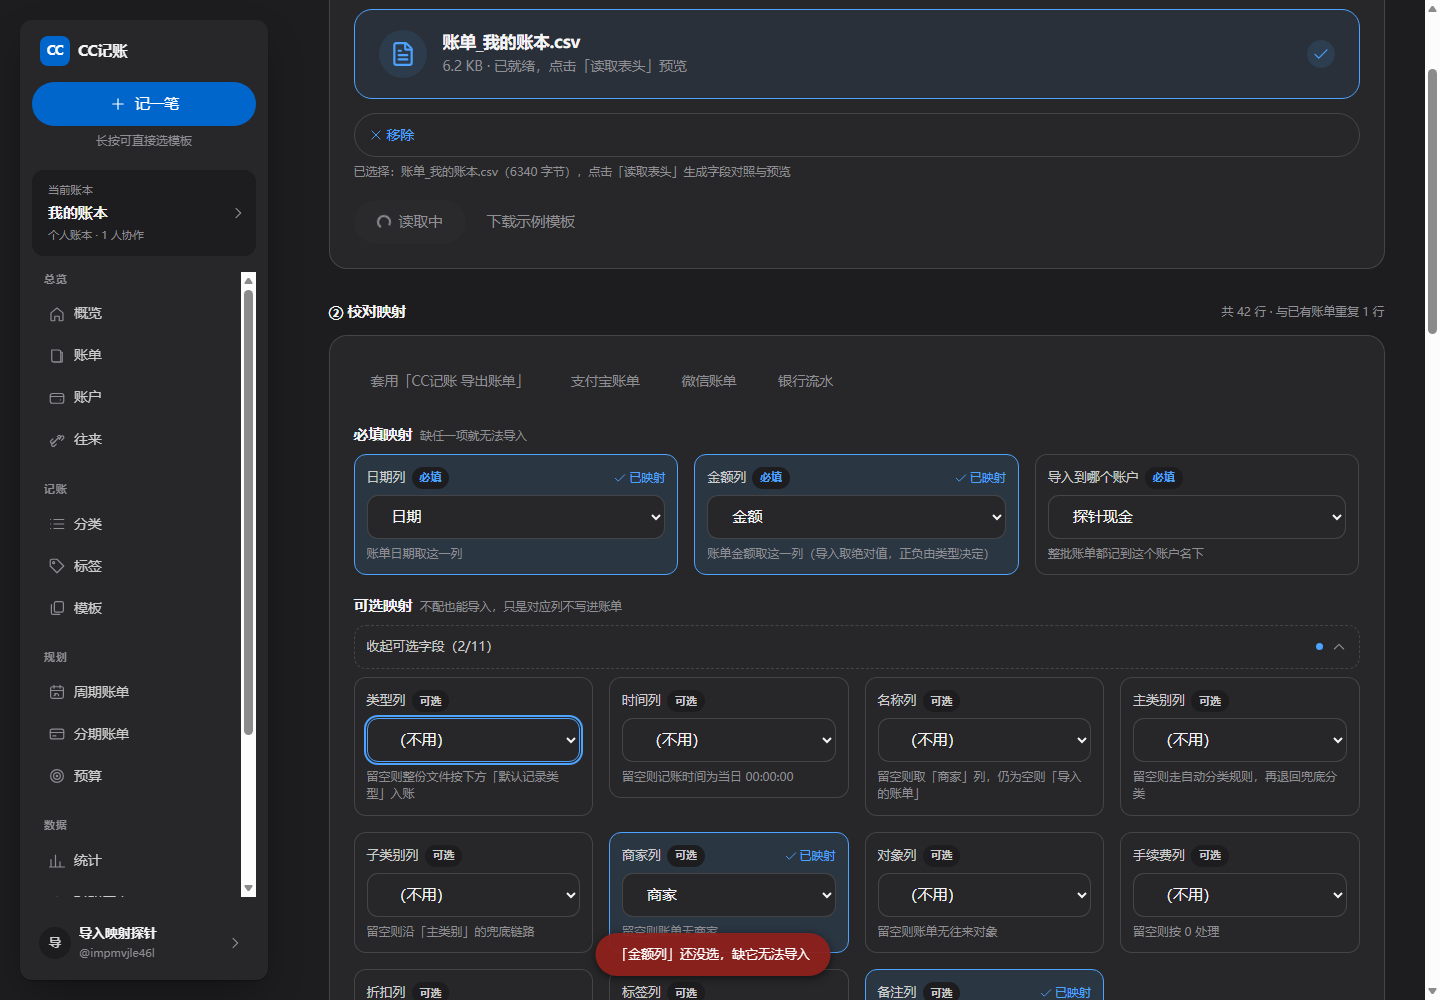
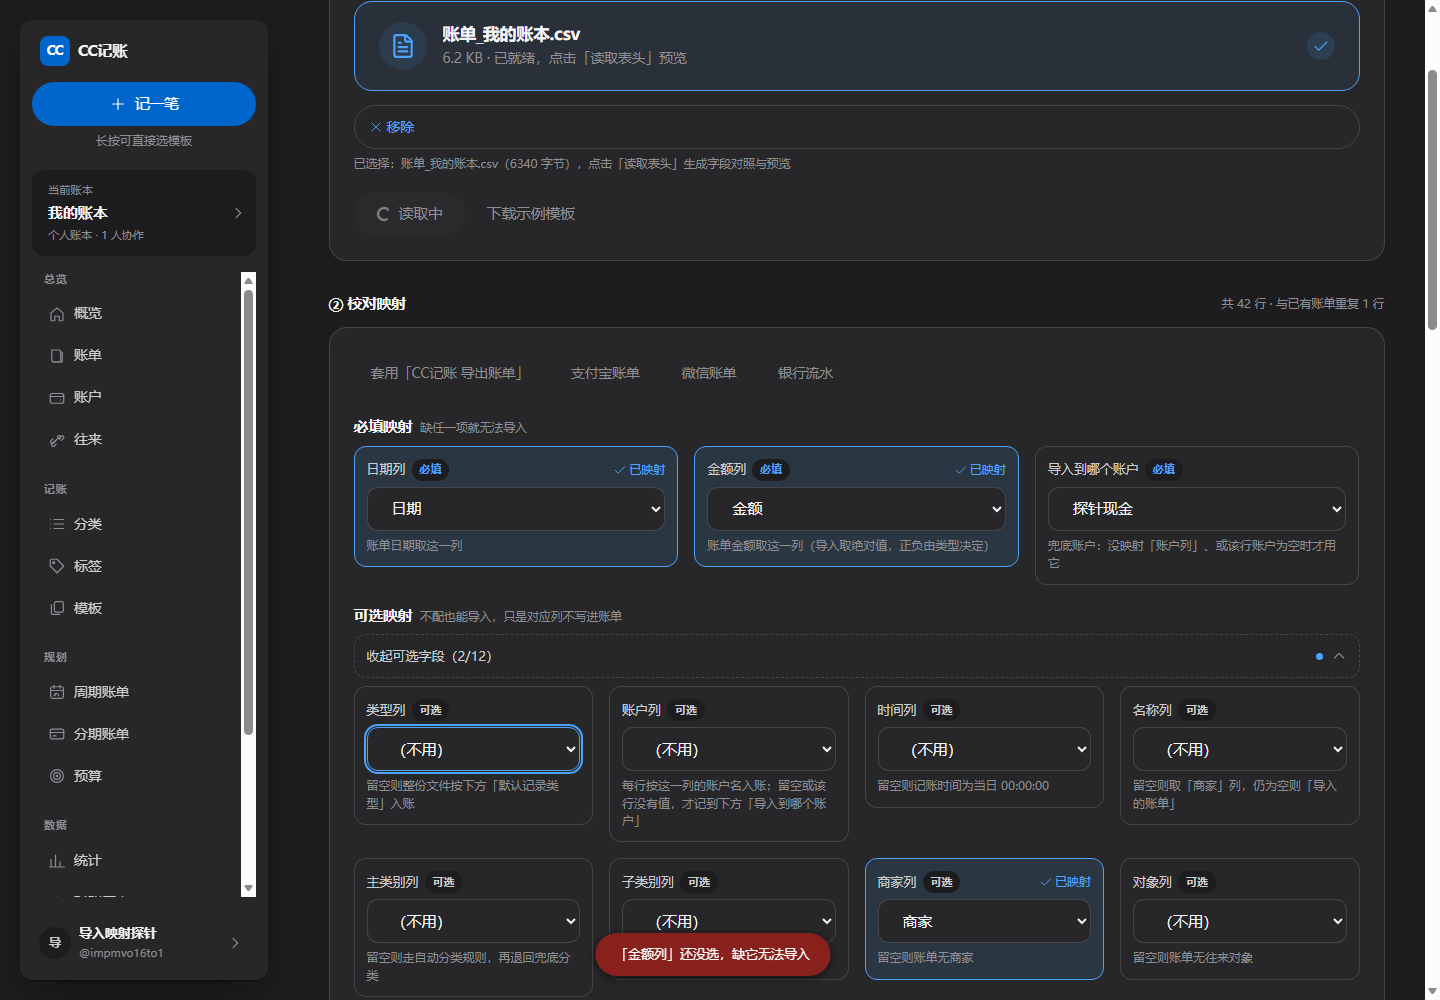
fix(import): 「账户」列按行归集，不再整批落到默认账户

diff --git a/src/modules/imports/service.ts b/src/modules/imports/service.ts
@@ -197,6 +197,13 @@ export const MAPPING_TEMPLATES: MappingTemplate[] = [
       dateColumn: ['日期'],
       amountColumn: ['金额'],
       recordTypeColumn: ['类型'],
+      /**
+       * 每行自带的账户名 —— 导出端写的是 `account.name`（`rowsToCsv()` 第 7 列）。
+       *
+       * ⚠ 这一列此前标成「不读取」，所有行落到「导入到哪个账户」那一个账户上，
+       *    自己的导出文件导回来 = 整份流水被压进同一个账户，账户余额集体失真。
+       */
+      accountColumn: ['账户'],
       timeColumn: ['时间'],
       nameColumn: ['名称'],
       mainCategoryColumn: ['主类别'],
@@ -217,7 +224,10 @@ export const MAPPING_TEMPLATES: MappingTemplate[] = [
      *    再让系统按 amount 重算一遍手续费会**双重计入**（`docs/03 §1.2`）。
      *
      * 「分类」在此拆为「主类别」「子类别」两列，分别反查一级 / 二级分类。
-     * 共消费 13 列（日期/时间/类型/主类别/子类别/名称/商家/对象/金额/手续费/折扣/标签/备注），其余 5 列（方向/账户/转入账户/实际值/记账人）不读取。
+     * 共消费 14 列（日期/时间/类型/账户/主类别/子类别/名称/商家/对象/金额/手续费/折扣/标签/备注），
+     * 其余 4 列（方向/转入账户/实际值/记账人）不读取。
+     *
+     * ⚠ 「账户」列**必须读取**：不读它，整份文件就只能落到一个账户上。
      */
 doc: [
       {
@@ -286,9 +296,9 @@ doc: [
         kind: 'ref',
         values: null,
         required: false,
-        consume: null,
-        hint: '不读取。导入统一写入「导入到哪个账户」所选账户，不按行分散',
-        defaultValue: '下方「导入到哪个账户」所选账户',
+        consume: 'accountColumn',
+        hint: '可选，但强烈建议映射：账单按**每行自己的**账户名入账；不映射则整批落到「导入到哪个账户」',
+        defaultValue: '该行账户为空（或本列不映射）时，取下方「导入到哪个账户」所选账户',
       },
       {
         column: '转入账户',
@@ -489,6 +499,16 @@ export const IMPORT_COLUMN_FIELDS = [
   'dateColumn',
   'amountColumn',
   'recordTypeColumn',
+  /**
+   * 「账户」列：按**每行自己的**账户名入账。
+   *
+   * ⚠ 这一列曾经被当成「不读取」，所有行一律落到 `defaultAccountId`
+   *   （界面上那个「导入到哪个账户」）—— 于是从本系统导出的 18 列文件
+   *   导回来时，原本分散在现金/银行卡/信用卡里的流水**全被塞进同一个账户**，
+   *   账户余额集体失真，而报告里没有一条失败行（静默的归集错误）。
+   *   「导入到哪个账户」的正确定位是**兜底**：账户列没映射、或该行这一格为空时才用。
+   */
+  'accountColumn',
   'directionColumn',
   'timeColumn',
   'nameColumn',
@@ -521,6 +541,17 @@ export interface Mapping {
    * 改名后两列各归其位，不会再有人照着字段名理解错。
    */
   recordTypeColumn?: string | null;
+  /**
+   * 每行自带的账户名所在的列。
+   *
+   * ⚠ 它与 `defaultAccountId` 是**两回事**，不能互相顶替：
+   *   · `accountColumn` —— **逐行**取值，本行写了「招行信用卡」就记到那张卡；
+   *   · `defaultAccountId` —— **整批兜底**，账户列没映射或该行为空时才用。
+   * 留空 → 整批落到 `defaultAccountId`（改之前的行为）。
+   * 行列了名字但账本里查不到 → **该行失败**并明确报出名字，
+   * 绝不静默退回兜底账户（那等于把钱记到别的账户上）。
+   */
+  accountColumn?: string | null;
   /**
    * 支付宝/微信的「收/支」列：只能区分收支两种，
    * 是 `recordTypeColumn` 的弱化兜底 —— 两者都命中时以 `recordTypeColumn` 为准。
@@ -576,6 +607,8 @@ export interface ParsedRow {
   /** 「类型/收支」列的原文，报错时回显（用户要能对上自己文件里的那一格） */
   rawType: string | null;
   /** 以下均为可选列：未映射时留 null，由 commit 兜底 */
+  /** 该行自带的账户名（原文）。null = 未映射或该格为空 → 落到 defaultAccountId */
+  accountName: string | null;
   txTime: string | null;
   name: string | null;
   mainCategoryName: string | null;
@@ -711,6 +744,8 @@ export function parseRows(
   const iRecordType = idx(mapping.recordTypeColumn);
   /** 「收/支」列：支付宝/微信的弱化兜底（只能区分收支），二者都命中时以 recordTypeColumn 为准 */
   const iDirection = idx(mapping.directionColumn);
+  /** 每行自带的账户名（「账户」列）；-1 = 未映射，全部走 defaultAccountId */
+  const iAccount = idx(mapping.accountColumn);
   const iTime = idx(mapping.timeColumn);
   const iName = idx(mapping.nameColumn);
   const iMain = idx(mapping.mainCategoryColumn);
@@ -792,6 +827,7 @@ export function parseRows(
       note: iNote >= 0 ? (r[iNote]?.trim() || null) : null,
       recordType,
       rawType,
+      accountName: at(iAccount),
       txTime: normalizeTime(at(iTime)),
       name: at(iName),
       mainCategoryName: at(iMain),
@@ -868,27 +904,30 @@ export function preview(
 
   const header = (rows[0] ?? []).map((c) => c.trim());
   const guess = guessMapping(header);
-  const eff: Mapping = {
+  /**
+   * 逐列兜底：**所有**列字段统一走「用户指定 → guess 猜的 → null」。
+   *
+   * ⚠ 此前只给 recordType / 主类别 / 子类别 等 5 个字段写了 guess 兜底，
+   *    时间 / 名称 / 账户 / 对象 / 手续费 / 折扣 / 标签 **漏了**，
+   *    于是「表头明明有这一列、服务端也猜中了、表单里却是空的」——
+   *    与早先「方向列被当不存在、工资导成支出」是**同一个坑的不同列**。
+   *    改成按 `IMPORT_COLUMN_FIELDS` 统一派生：新增列自动获得兜底，不会再漏。
+   *
+   * 必填的日期 / 金额额外退回「第一列 / 第二列」，保证首次预览总有东西可看。
+   */
+  const eff = {
     dateColumn: mapping?.dateColumn ?? guess.mapping.dateColumn ?? header[0] ?? '',
     amountColumn: mapping?.amountColumn ?? guess.mapping.amountColumn ?? header[1] ?? '',
-    merchantColumn: mapping?.merchantColumn ?? guess.mapping.merchantColumn ?? null,
-    noteColumn: mapping?.noteColumn ?? guess.mapping.noteColumn ?? null,
-    /**
-     * ⚠ 这里原先是 `mapping?.recordTypeColumn ?? null` —— **不走 guess 兜底**，
-     * 于是即使 `guessMapping()` 已经从表头认出了「收/支」列，也被丢弃。
-     * 前端首次预览不传 mapping（`previewImport(id, file, null)`），
-     * 结果就是「表头明明有方向列、解析却当它不存在」：
-     * 所有正数行按 recordType（默认 expense）落表，**工资被导成支出**。
-     * 与 `guessMapping` 漏字段是同一处缺陷的两端，两头都得补才生效。
-     */
-    recordTypeColumn: mapping?.recordTypeColumn ?? guess.mapping.recordTypeColumn ?? null,
-    mainCategoryColumn: mapping?.mainCategoryColumn ?? guess.mapping.mainCategoryColumn ?? null,
-    subCategoryColumn: mapping?.subCategoryColumn ?? guess.mapping.subCategoryColumn ?? null,
     recordType: (mapping?.recordType as RecordType) ?? 'expense',
     defaultAccountId: mapping?.defaultAccountId ?? '',
     defaultCategoryId: mapping?.defaultCategoryId ?? null,
     incomeCategoryId: mapping?.incomeCategoryId ?? null,
-  };
+  } as Mapping;
+  for (const f of IMPORT_COLUMN_FIELDS) {
+    if (f === 'dateColumn' || f === 'amountColumn') continue;
+    (eff as unknown as Record<string, string | null>)[f] =
+      (mapping?.[f] as string | null | undefined) ?? (guess.mapping[f] as string | null | undefined) ?? null;
+  }
 
   const { parsed, errors } = parseRows(rows, eff, 20);
   const errByRow = new Map(errors.map((e) => [e.row, e.message]));
@@ -980,10 +1019,15 @@ function describeColumns(
     return {
       column,
       index: i + 1,
-      kind: (consume === 'dateColumn' ? 'date' : consume === 'amountColumn' ? 'money' : 'text') as
-        | 'date'
-        | 'money'
-        | 'text',
+      kind: (
+        consume === 'dateColumn'
+          ? 'date'
+          : consume === 'amountColumn'
+            ? 'money'
+            : consume === 'accountColumn'
+              ? 'ref'
+              : 'text'
+      ) as 'date' | 'money' | 'ref' | 'text',
       required: consume === 'dateColumn' || consume === 'amountColumn',
       consume,
       hint: consume
@@ -1152,6 +1196,24 @@ export function commit(
   }
   const { parsed, errors, total } = parseRows(rows, mapping, LIMITS.IMPORT_MAX_ROWS);
 
+  /**
+   * 账户名 → 账户（整批只查一次，建缓存）。
+   *
+   * ⚠ 为什么要按名反查而不是沿用 `defaultAccountId`：
+   *    从本系统导出的文件第 7 列就是账户名，不读它的话，
+   *    原本分散在现金 / 银行卡 / 信用卡的流水会被**全部塞进同一个账户**，
+   *    账户余额集体失真，而报告里零失败行 —— 静默的归集错误比报错糟糕得多。
+   *
+   * 只认账本内**已存在**的账户：导入不隐式建账户（与标签同一条纪律 ——
+   * 新建账户属于「改变用户账本结构」的副作用，不该由导入悄悄做）。
+   */
+  const accRows = ctx.db
+    .select({ id: accounts.id, name: accounts.name, kind: accounts.kind, archivedAt: accounts.archivedAt })
+    .from(accounts)
+    .where(eq(accounts.ledgerId, ledgerId))
+    .all();
+  const accByName = new Map(accRows.map((a) => [a.name.trim(), a]));
+
   const known = allowDuplicate ? new Set<string>() : existingKeys(ctx, ledgerId);
   const batch = new Set<string>();
 
@@ -1202,6 +1264,50 @@ export function commit(
         message: `「${RECORD_TYPE_LABEL[p.recordType]}」暂不支持批量导入（转账需指定对方账户、余额调整需指定方向、应收/应付走债权债务账户），请导入后单独补录`,
       });
       continue;
+    }
+
+    /**
+     * 账户归属：**优先用本行「账户」列写的名字**，没写才退回 `defaultAccountId`。
+     *
+     * ⚠ 查不到时**该行失败**，绝不静默退回兜底账户 ——
+     *    把一笔「招行信用卡」的消费记到「现金」上，是方向性的错账，
+     *    且用户在报告里看不到任何提示（这是改之前最危险的地方）。
+     */
+    let accountId = mapping.defaultAccountId;
+    const accName = p.accountName?.trim();
+    if (accName) {
+      const hit = accByName.get(accName);
+      if (!hit) {
+        report.failed += 1;
+        report.errors.push({
+          row: p.row,
+          column: mapping.accountColumn ?? mapping.amountColumn,
+          value: accName,
+          message: `账户「${accName}」在本账本里不存在（导入不会自动建账户，请先建好同名账户）`,
+        });
+        continue;
+      }
+      if (hit.archivedAt) {
+        report.failed += 1;
+        report.errors.push({
+          row: p.row,
+          column: mapping.accountColumn ?? mapping.amountColumn,
+          value: accName,
+          message: `账户「${accName}」已停用，请先在账户页恢复`,
+        });
+        continue;
+      }
+      if (hit.kind === 'virtual') {
+        report.failed += 1;
+        report.errors.push({
+          row: p.row,
+          column: mapping.accountColumn ?? mapping.amountColumn,
+          value: accName,
+          message: `「${accName}」是债权债务 / 系统账户，不能作为导入目标`,
+        });
+        continue;
+      }
+      accountId = hit.id;
     }
 
     /** 收入行用收入兜底分类 —— 分类树按 record_type 分开，支出分类配收入行必被拒 */
@@ -1261,7 +1367,7 @@ export function commit(
       const discount = p.discount && DISCOUNT_APPLICABLE[p.recordType].length ? p.discount : '0';
       createTransaction(ctx, actorId, ledgerId, {
         recordType: p.recordType,
-        accountId: mapping.defaultAccountId,
+        accountId,
         categoryId,
         name: p.name || p.merchant || '导入的账单',
         merchant: p.merchant,
@@ -1305,7 +1411,9 @@ export function commit(
       failed: report.failed,
       skipped: report.skipped,
       total: report.total,
+      /** 兜底账户；`accountColumn` 有值时大部分行并不落在它上面，故一并记录列映射 */
       accountId: mapping.defaultAccountId,
+      accountColumn: mapping.accountColumn ?? null,
     },
   });
 

diff --git a/public/assets/views/import.js b/public/assets/views/import.js
@@ -33,6 +33,7 @@ const MAPPING_FIELDS = [
   { key: 'dateColumn', label: '日期列', required: true, hint: '账单日期取这一列' },
   { key: 'amountColumn', label: '金额列', required: true, hint: '账单金额取这一列（导入取绝对值，正负由类型决定）' },
   { key: 'recordTypeColumn', label: '类型列', hint: '留空则整份文件按下方「默认记录类型」入账' },
+  { key: 'accountColumn', label: '账户列', hint: '每行按这一列的账户名入账；留空或该行没有值，才记到下方「导入到哪个账户」' },
   { key: 'timeColumn', label: '时间列', hint: '留空则记账时间为当日 00:00:00' },
   { key: 'nameColumn', label: '名称列', hint: '留空则取「商家」列，仍为空则「导入的账单」' },
   { key: 'mainCategoryColumn', label: '主类别列', hint: '留空则走自动分类规则，再退回兜底分类' },
@@ -66,6 +67,7 @@ const FIELD_LABEL = {
   dateColumn: '日期',
   amountColumn: '金额',
   recordTypeColumn: '类型',
+  accountColumn: '账户',
   directionColumn: '收支',
   timeColumn: '时间',
   nameColumn: '名称',
@@ -116,6 +118,7 @@ export async function renderImport(container, { go } = {}) {
     dateColumn: '',
     amountColumn: '',
     recordTypeColumn: null,
+    accountColumn: null,
     directionColumn: null,
     timeColumn: null,
   nameColumn: null,
@@ -493,7 +496,7 @@ export async function renderImport(container, { go } = {}) {
                     .map((a) => `<option value="${esc(a.id)}"${mapping.defaultAccountId === a.id ? ' selected' : ''}>${esc(a.name)}</option>`)
                     .join('')}
                 </select>
-                <span class="map-item__hint">整批账单都记到这个账户名下</span>
+                <span class="map-item__hint">兜底账户：没映射「账户列」、或该行账户为空时才用它</span>
                 <span class="field__error"></span>
               </div>
             </div>
@@ -692,8 +695,19 @@ export async function renderImport(container, { go } = {}) {
       toast('请选择导入到哪个账户', 'error');
       return;
     }
-    if (!window.confirm(`确认导入 ${preview?.total ?? 0} 行到「${accounts.find((a) => a.id === mapping.defaultAccountId)?.name ?? ''}」？\n\n导入的账单与手记的账单完全同路，可用账单列表筛选出来核对`))
-      return;
+    /**
+     * 确认文案要**按实际归集方式**说清楚。
+     *
+     * ⚠ 映射了「账户列」之后，账单是**按行分散**入账的，
+     *    再写「导入 N 行到「现金」」就是假的——用户看完以为全进现金，
+     *    实际进了五张卡。文案必须跟着归集方式变。
+     */
+    const fallbackName = accounts.find((a) => a.id === mapping.defaultAccountId)?.name ?? '';
+    const byColumn = Boolean(mapping.accountColumn);
+    const confirmText = byColumn
+      ? `确认导入 ${preview?.total ?? 0} 行？\n\n· 按「${mapping.accountColumn}」列的账户名分别入账\n· 该列为空或名字对不上的行：记到「${fallbackName}」（名字对不上的会失败并列进报告）`
+      : `确认导入 ${preview?.total ?? 0} 行到「${fallbackName}」？\n\n（可选映射里的「账户列」没配，所以整批都进这一个账户）`;
+    if (!window.confirm(`${confirmText}\n\n导入的账单与手记的账单完全同路，可用账单列表筛选出来核对`)) return;
     setLoading(btn, true, '导入中');
     try {
       report = (await Api.commitImport(ledger.id, file, mapping)).data;

diff --git a/tests/import-mapping.test.ts b/tests/import-mapping.test.ts
@@ -88,10 +88,13 @@ describe('导入模板 · CC记账导出账单（18 列契约）', () => {
     expect(tpl.doc!.find((d) => d.column === '实际值')!.consume).toBeNull();
   });
 
-  it('引用列（账户 / 转入账户）不读取：导入不做隐式建账户', () => {
-    for (const n of ['账户', '转入账户']) {
-      expect(tpl.doc!.find((d) => d.column === n)!.consume).toBeNull();
-    }
+  /**
+   * 「账户」列**必须读取**（按行归集），「转入账户」仍然不读 ——
+   * 转账本来就不支持批量导入，读它也没有落点。
+   */
+  it('「账户」列按行归集；「转入账户」不读取（转账不支持导入）', () => {
+    expect(tpl.doc!.find((d) => d.column === '账户')!.consume).toBe('accountColumn');
+    expect(tpl.doc!.find((d) => d.column === '转入账户')!.consume).toBeNull();
   });
 
   it('可选列均可映射（时间 / 名称 / 对象 / 主类别 / 子类别 / 手续费 / 折扣 / 标签）', () => {
@@ -127,6 +130,26 @@ describe('guessMapping · 自己的导出文件要能被完整识别', () => {
     expect(mapping.recordTypeColumn).toBe('类型');
     expect(mapping.mainCategoryColumn).toBe('主类别');
     expect(mapping.subCategoryColumn).toBe('子类别');
+    /** 账户列命中，否则整份文件会被压进 defaultAccountId 一个账户 */
+    expect(mapping.accountColumn).toBe('账户');
+  });
+
+  it('parseRows 逐行取出账户名（未映射时为 null → 走兜底账户）', () => {
+    const rows = [
+      EXPORT_HEADERS,
+      ['2026-10-18', '12:30:00', '支出', '减少', '餐饮', '外卖', '招行卡', '', '午餐', '美团', '', '100.00', '0', '0', '100.00', '', '', ''],
+      ['2026-10-19', '', '支出', '减少', '餐饮', '外卖', '', '', '午餐', '美团', '', '20.00', '0', '0', '20.00', '', '', ''],
+    ];
+    const { parsed } = parseRows(rows, {
+      dateColumn: '日期',
+      amountColumn: '金额',
+      accountColumn: '账户',
+      recordType: 'expense',
+      defaultAccountId: 'acc_x',
+    }, 10);
+    expect(parsed[0]!.accountName).toBe('招行卡');
+    /** 该行账户格为空 → null，由 commit 兜底到 defaultAccountId */
+    expect(parsed[1]!.accountName).toBeNull();
   });
 
   it('解析真实参考文档：类型列按行还原记录类型', () => {

diff --git a/src/modules/imports/index.ts b/src/modules/imports/index.ts
@@ -33,6 +33,8 @@ const mappingSchema = z.object({
   dateColumn: z.string().min(1, '必须指定日期列'),
   amountColumn: z.string().min(1, '必须指定金额列'),
   recordTypeColumn: z.string().nullish(),
+  /** 每行自带的账户名所在列；留空 → 整批落到 defaultAccountId */
+  accountColumn: z.string().nullish(),
   directionColumn: z.string().nullish(),
   timeColumn: z.string().nullish(),
   nameColumn: z.string().nullish(),

diff --git a/public/sw.js b/public/sw.js
@@ -21,7 +21,7 @@
  * 静态资源走 SWR，不换版本号的话用户第一次刷新拿到的仍是旧 JS ——
  * 正好是要修的那份，会被当成「没修好」。
  */
-const VERSION = 'cc-ledger-v12';
+const VERSION = 'cc-ledger-v13';
 const SHELL = `${VERSION}-shell`;
 const STATIC = `${VERSION}-static`;
 const API = `${VERSION}-api`;
